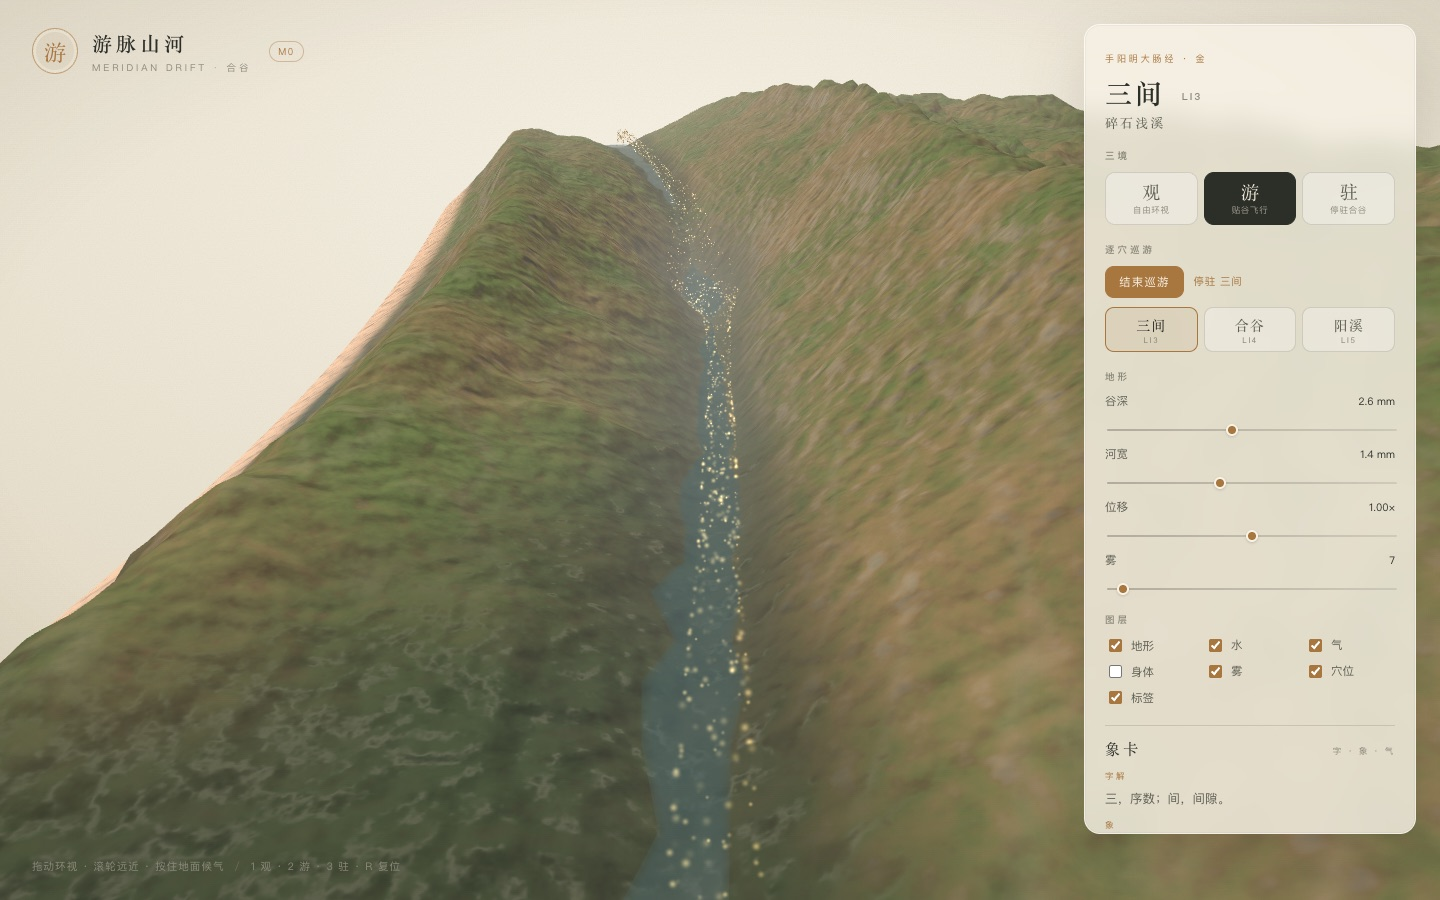
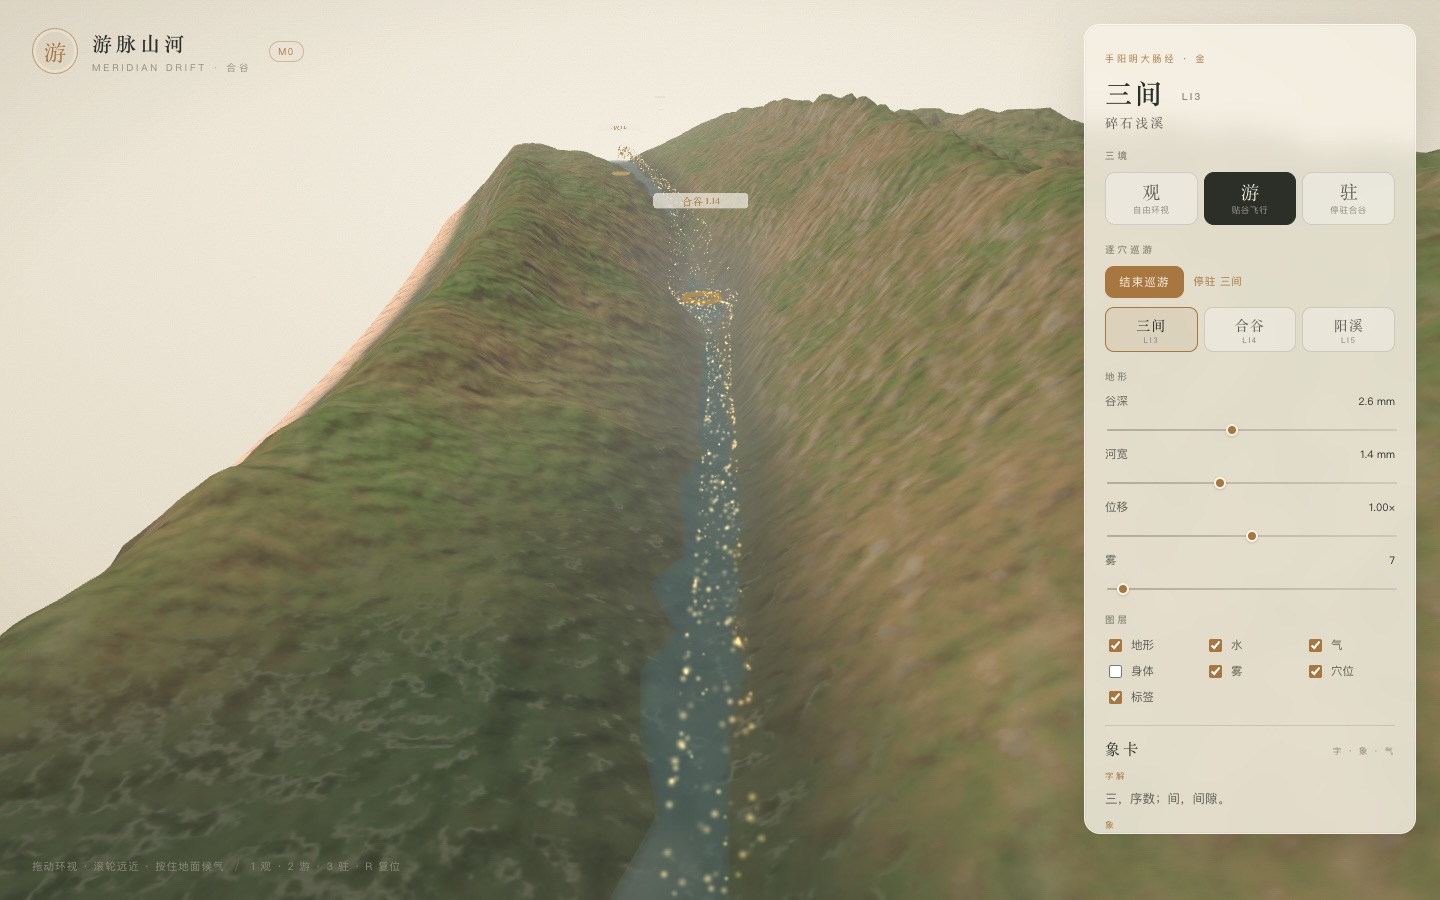
fix: 巡游模式按开关显示穴位标签
- 标签开关在巡游与飞行中也生效
- 穴位环在观/巡游显示，普通游保持干净
- 更新巡游截图与文档

diff --git a/apps/web/src/scene/SceneHost.ts b/apps/web/src/scene/SceneHost.ts
@@ -282,15 +282,27 @@ export class SceneHost {
     this.rig.reset();
   }
 
+  /**
+   * 标签开关在所有镜头生效；穴位环只在观/逐穴巡游显示，
+   * 普通「游」保持干净画面（除非用户主动打开标签）。
+   */
+  private updateMarkerVisibility(): void {
+    const showRings =
+      this.visibility.markers && (this.mode === 'observe' || this.rig.isTouring());
+    const showLabels = this.visibility.labels;
+    this.layers.markers.group.visible = showRings || showLabels;
+    this.layers.markers.setRingsVisible(showRings);
+    this.layers.markers.setLabelsVisible(showLabels);
+  }
+
   private applyVisibility(): void {
     if (!this.layers) return;
     this.layers.terrain.group.visible = this.visibility.terrain;
     this.layers.water.group.visible = this.visibility.water;
-    this.layers.body.group.visible = this.visibility.body;
+    this.layers.body.group.visible = this.visibility.body && this.mode === 'observe';
     this.layers.qi.group.visible = this.visibility.qi;
     this.layers.mist.group.visible = this.visibility.mist;
-    this.layers.markers.group.visible = this.visibility.markers;
-    this.layers.markers.setLabelsVisible(this.visibility.labels);
+    this.updateMarkerVisibility();
   }
 
   private rebuildTerrain(): void {
@@ -371,10 +383,8 @@ export class SceneHost {
       this.activeCode = stop.code;
       this.onStopChange?.(stop.code);
     }
-    const showContext = this.mode === 'observe';
-    this.layers.body.group.visible = this.visibility.body && showContext;
-    this.layers.markers.group.visible = this.visibility.markers && showContext;
-    this.layers.markers.setLabelsVisible(this.visibility.labels && showContext);
+    this.layers.body.group.visible = this.visibility.body && this.mode === 'observe';
+    this.updateMarkerVisibility();
     const near = this.camera.position.distanceTo(this.heguVec) < 0.045;
     this.layers.mist.group.visible = this.visibility.mist && !near;
     this.layers.water.update(time);

diff --git a/packages/render/src/markers/MeridianMarkers.ts b/packages/render/src/markers/MeridianMarkers.ts
@@ -4,6 +4,7 @@ import type { TerrainField } from '@inner/scene-gen';
 
 export interface MarkerView {
   group: THREE.Group;
+  setRingsVisible(visible: boolean): void;
   setLabelsVisible(visible: boolean): void;
   dispose(): void;
 }
@@ -16,6 +17,7 @@ export function createMarkerView(route: Route, field: TerrainField): MarkerView 
   const accent = new THREE.Color(route.meridian.palette.accent);
 
   const labels: THREE.Sprite[] = [];
+  const rings: THREE.Mesh[] = [];
   for (const stop of route.stops) {
     const ground = field.pointAt(stop.s, 0);
     const position = new THREE.Vector3(ground[0], ground[1] + 0.0004, ground[2]);
@@ -33,6 +35,7 @@ export function createMarkerView(route: Route, field: TerrainField): MarkerView 
     ring.rotation.x = Math.PI / 2;
     ring.name = `Anchor-${stop.code}`;
     group.add(ring);
+    rings.push(ring);
 
     const label = makeLabel(`${stop.name} ${stop.code}`, accent);
     label.position.copy(position).add(new THREE.Vector3(0, 0.0042, 0));
@@ -44,6 +47,9 @@ export function createMarkerView(route: Route, field: TerrainField): MarkerView 
 
   return {
     group,
+    setRingsVisible(visible: boolean) {
+      for (const ring of rings) ring.visible = visible;
+    },
     setLabelsVisible(visible: boolean) {
       for (const label of labels) label.visible = visible;
     },

diff --git a/docs/07-M1-逐穴巡游.md b/docs/07-M1-逐穴巡游.md
@@ -57,6 +57,7 @@ holding（最后一站）──after 3.6s──► finished
 - 三个站点 chip：三间、合谷、阳溪，当前站高亮，点击可直接跳站；
 - 状态文字：`前往 合谷` / `停驻 三间` / `巡游完成`；
 - 巡游期间三境自动切到「游」；点击观/驻、或按 1/3 会先停止巡游，再切回对应机位。
+- 「标签」开关在巡游中同样生效；「穴位」环在观与巡游时显示，普通「游」默认保持干净画面。
 
 ---
 

diff --git a/docs/05-代码目录说明.md b/docs/05-代码目录说明.md
@@ -268,7 +268,7 @@ constructor
 loop
   ├─ 参数脏且静置 >120ms → rebuildTerrain()
   ├─ rig.update(dt)
-  ├─ 图层可见性（body/markers 仅 observe；mist 近景隐藏）
+  ├─ 图层可见性（body 仅 observe；标签按开关；穴位环观/巡游；mist 近景隐藏）
   ├─ 长按 180ms → Raycaster 命中地形 → 候气强度 / 吸引点
   ├─ water.update / mist.update / qi.update / press.update / uTime
   └─ render → FPS 每 0.5s 回传 React
